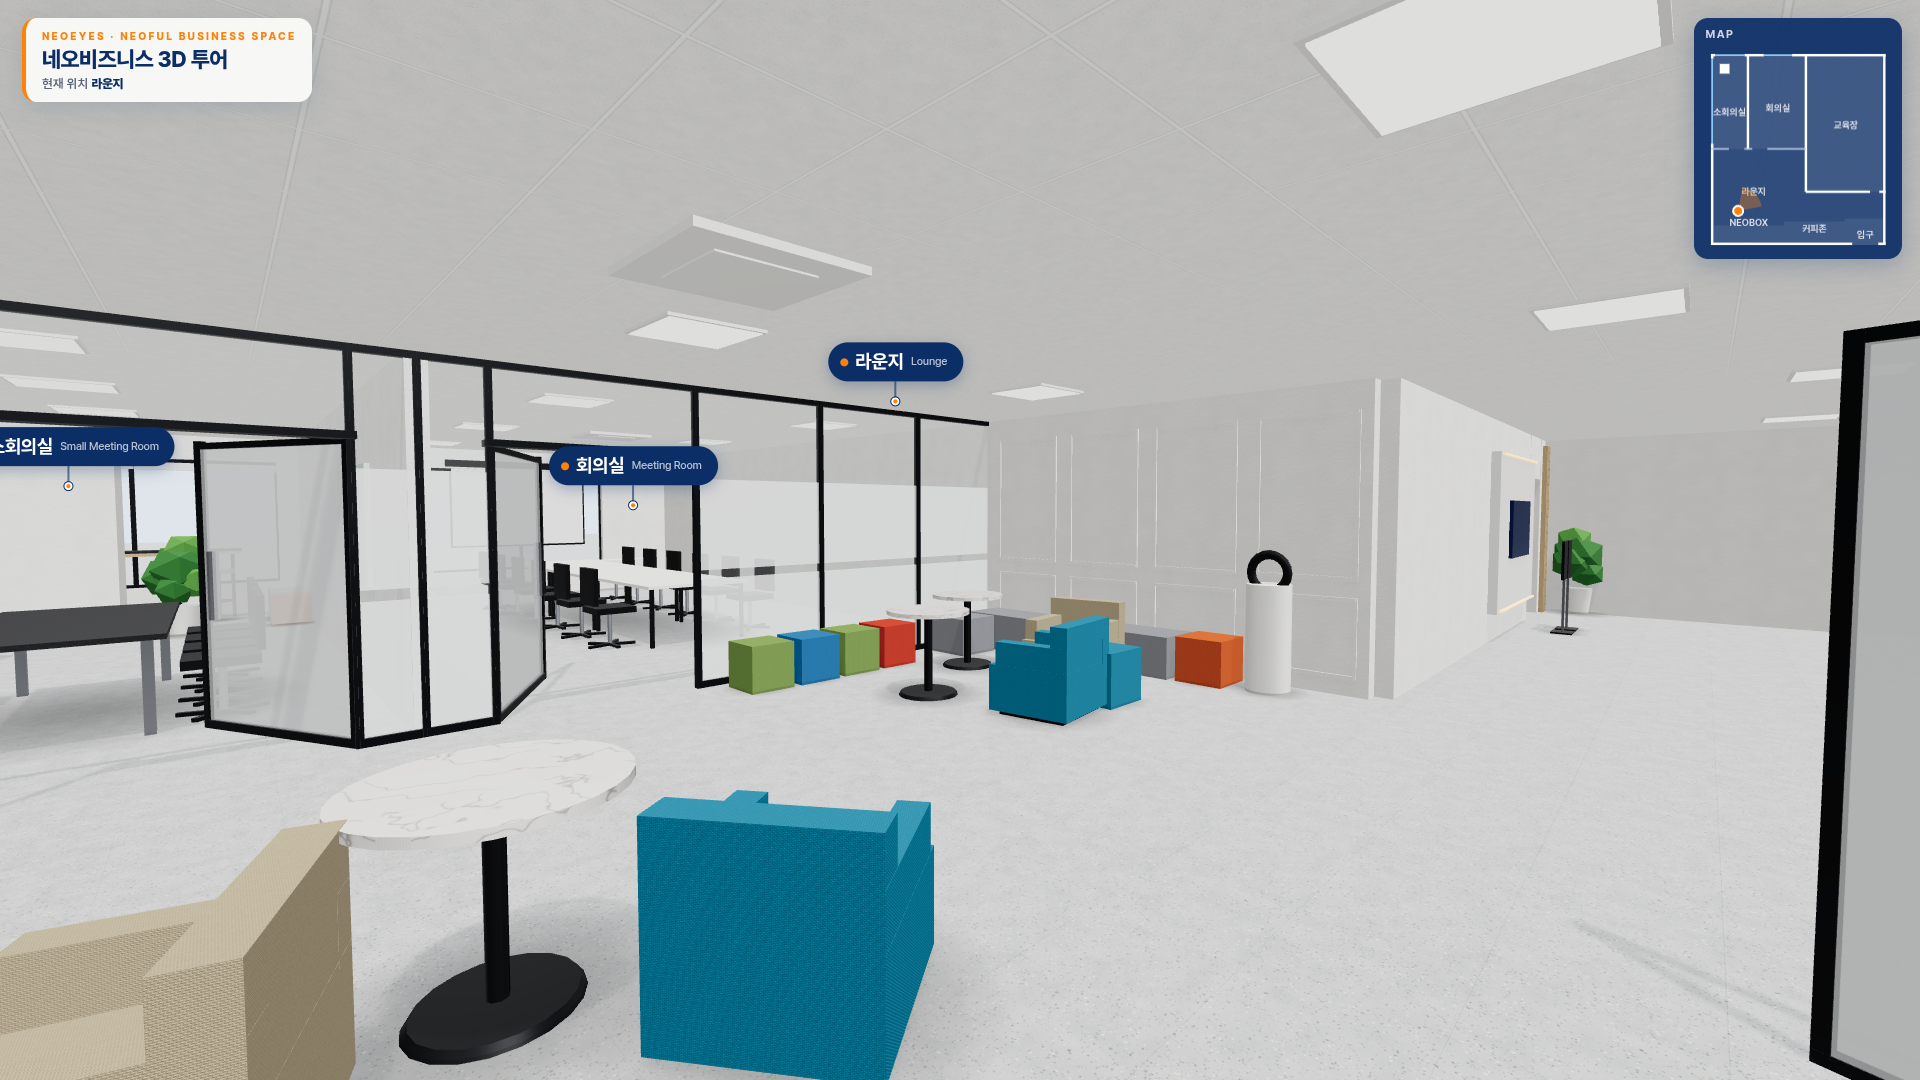
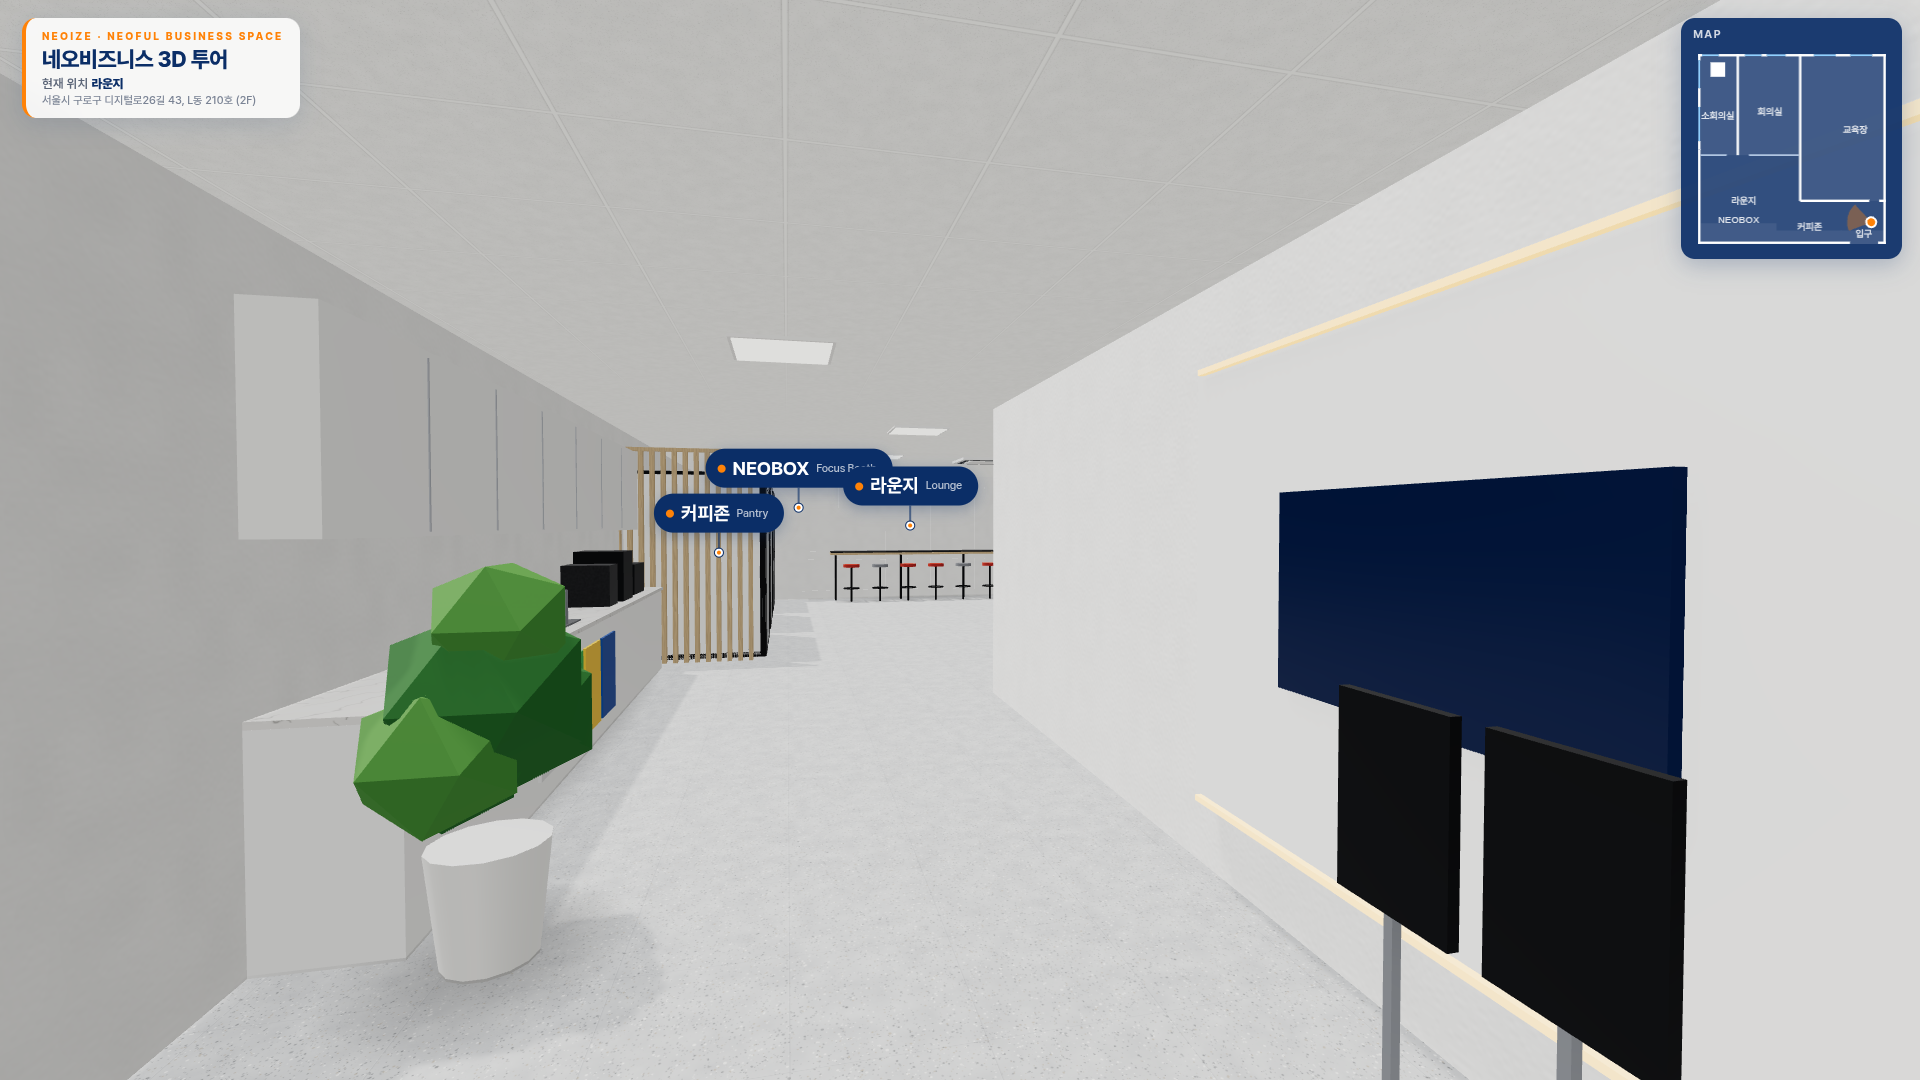
건물 세로 18.3m(통로·라운지 축소): 남쪽 벽·입구·NEOBOX·커피존 1.3m 북쪽 이동

diff --git a/layout.js b/layout.js
@@ -16,7 +16,7 @@ window.LAYOUT = {
   building: {
     name: '네오비즈니스',
     width: 18.0,        // 건물 가로(동서) 길이
-    depth: 19.6,        // 건물 세로(남북) 길이
+    depth: 18.3,        // 건물 세로(남북) 길이 — 바꾸면 남쪽 벽·입구·부스·커피존 좌표(z)도 같이 옮겨 주세요 (11/19 실측 스케치: 19.6 → 18.3)
     ceiling: 2.7,       // 천장 높이
     eye: 1.6,           // 걷기 모드 눈높이
     wall: { exterior: 0.24, interior: 0.14, thick: 0.30 }  // 벽 두께 기본값 (벽마다 t 로 따로 지정 가능)
@@ -51,21 +51,21 @@ window.LAYOUT = {
              desc:'Neoful biz space EDUCATION CENTER. 라운지 쪽 출입구에는 백라이트 패널과 TV, 안내 배너가 있고, 내부는 앞쪽에 단상과 와이드 스크린, 화이트 강의용 책상 5줄이 놓인 교육장이에요.',
              use:'교육 · 면접 · 회의(온라인) · 워크숍 · 시상식 · 세미나',
              services:['와이드 스크린','빔프로젝터','무선마이크(2대)','TV 모니터(55인치)','공기청정기','정수기','냉난방 · 시스템 공기청정기','강사 대기석','행사 전 물품 택배 배송 가능'] } },
-    { id:'focus', name:'NEOBOX', en:'Focus Booth · NEOBOX', small:true, rect:[0.24, 17.6, 7.52, 19.6], floor:'floor',
-      label:[3.9, 17.3], labelY:2.35, jump:{ x:5.1, z:16.0, look:[3.4, 19.3] },
+    { id:'focus', name:'NEOBOX', en:'Focus Booth · NEOBOX', small:true, rect:[0.24, 16.3, 7.52, 18.3], floor:'floor',
+      label:[3.9, 16.0], labelY:2.35, jump:{ x:5.1, z:14.7, look:[3.4, 18.0] },
       card:{ photos:['IMG_0398','IMG_0397','IMG_0401','IMG_0403'],
              desc:'NEOBOX1 · NEOBOX2 · NEOBOX3, 모니터와 책상이 있는 1인용 부스 3개예요. 커피존 바로 옆, 우드 슬랫 파티션 너머에 나란히 있어요.' } },
-    { id:'coffee', name:'커피존', en:'Pantry', small:true, rect:[7.52, 17.2, 13.8, 19.6], floor:'floor',
-      label:[10.7, 18.0], labelY:1.6, jump:{ x:10.9, z:16.4, look:[10.3, 19.4] },
+    { id:'coffee', name:'커피존', en:'Pantry', small:true, rect:[7.52, 17.0, 13.75, 18.3], floor:'floor',
+      label:[10.7, 16.7], labelY:1.6, jump:{ x:10.9, z:15.1, look:[10.3, 18.1] },
       card:{ photos:['IMG_0386','IMG_0387','IMG_0398'],
              desc:'공용 사용 공간(LOUNGE & AMENITIES). 커피머신과 수납장, 분리수거함이 있는 탕비 공간이에요. 우드 슬랫 파티션으로 라운지와 나뉘어 있어요.',
              services:['정수기','커피머신','제빙기','전자레인지','공기청정기','냉난방'] } },
-    { id:'entrance', name:'입구', en:'Entrance', small:true, rect:[13.8, 16.9, 18, 19.6], floor:'floor',
-      label:[15.9, 18.6], jump:{ x:17.3, z:18.25, look:[6.0, 10.4] },
+    { id:'entrance', name:'입구', en:'Entrance', small:true, rect:[13.75, 17.0, 18, 18.3], floor:'floor',
+      label:[15.9, 17.3], jump:{ x:17.3, z:16.95, look:[6.0, 10.4] },
       card:{ photos:['IMG_0378','IMG_0380','IMG_0388'],
              desc:'유리문 위에 Neoful business space 사인이 있는 입구예요. 들어오면 교육장 앞 디스플레이 월과 배너가 보여요.' } },
-    { id:'lounge', name:'라운지', en:'Lounge', rect:[0, 9.74, 18, 19.6], floor:'floor',
-      label:[4.4, 14.2], jump:{ x:2.8, z:16.1, look:[8.2, 10.7] },
+    { id:'lounge', name:'라운지', en:'Lounge', rect:[0, 9.74, 18, 18.3], floor:'floor',
+      label:[4.4, 14.2], jump:{ x:2.8, z:15.0, look:[8.2, 10.7] },
       card:{ photos:['IMG_0420','IMG_0421','IMG_0422','IMG_0424'],
              desc:'공용 사용 공간(LOUNGE & AMENITIES) — 탁 트인 휴식 공간이에요. 흰 몰딩 벽을 따라 긴 바 테이블과 스툴이 놓여 있고, 회의실 유리벽 앞 코너에는 회색 벤치, 컬러 큐브 스툴, 원형 테이블과 블루·베이지 암체어가 있어요.',
              services:['정수기','커피머신','제빙기','전자레인지','공기청정기','냉난방','휴식 공간'] } }
@@ -109,12 +109,12 @@ window.LAYOUT = {
     { from:[0, 3.3],   to:[0, 5.1],   type:'solid',  outer:true },
     { from:[0, 5.1],   to:[0, 8.4],   type:'window', outer:true, style:'tall', blind:0 },      // 소회의실 창 ② (가운데) — 사진 IMG_0414·0415: 롤스크린 올림
     { from:[0, 8.4],   to:[0, 9.21],  type:'solid',  outer:true },
-    { from:[0, 9.21],  to:[0, 19.6],  type:'solid',  outer:true, molding:'east', moldingFrom:9.9, moldingTo:17.3 },  // 라운지 몰딩 벽 (molding: 몰딩을 붙일 면, From~To 구간)
+    { from:[0, 9.21],  to:[0, 18.3],  type:'solid',  outer:true, molding:'east', moldingFrom:9.9, moldingTo:16.0 },  // 라운지 몰딩 벽 (molding: 몰딩을 붙일 면, From~To 구간)
     // 바깥벽 — 남쪽(아래), 입구 유리 양문
-    { from:[0, 19.6],  to:[18, 19.6], type:'solid',  outer:true,
+    { from:[0, 18.3],  to:[18, 18.3], type:'solid',  outer:true,
       openings:[ { at:14.56, width:2.7, door:'glass', double:true, entrance:true } ] },
     // 바깥벽 — 동쪽(오른쪽)
-    { from:[18, 0],    to:[18, 19.6], type:'solid',  outer:true },
+    { from:[18, 0],    to:[18, 18.3], type:'solid',  outer:true },
 
     // 안쪽 벽
     { from:[3.81, 0],  to:[3.81, 9.74], type:'solid' },                       // 소회의실 | 회의실
@@ -144,8 +144,8 @@ window.LAYOUT = {
     panels: [
       { rect:[0, 2.4, 3.81, 9.74],   nx:1, nz:3 },
       { rect:[3.81, 0, 9.79, 9.74],  nx:2, nz:3 },
-      { rect:[0, 9.74, 9.79, 17.7],  nx:3, nz:2 },
-      { rect:[9.79, 14.14, 18, 19.6], nx:2, nz:1 }
+      { rect:[0, 9.74, 9.79, 16.4],  nx:3, nz:2 },
+      { rect:[9.79, 14.14, 18, 18.3], nx:2, nz:1 }
     ],
     // 교육장: 사진 IMG_0382·0384 기준 — 남북 방향 일자 LED 2열 × 3줄, 가운데 줄에 천장 에어컨과 빔 프로젝터
     strips: [
@@ -212,14 +212,14 @@ window.LAYOUT = {
     { type:'plant', x:17.69, z:14.74, scale:1.05 },
 
     /* --- NEOBOX 부스 --- */
-    { type:'booth', x:1.405, z:18.6, w:1.85, d:1.69, label:'NEOBOX1' },
-    { type:'booth', x:3.89,  z:18.6, w:1.86, d:1.69, label:'NEOBOX2' },
-    { type:'booth', x:6.38,  z:18.6, w:1.86, d:1.69, label:'NEOBOX3' },
+    { type:'booth', x:1.385, z:17.3, w:1.85, d:1.69, label:'NEOBOX1' },   // x0.46–2.31 (11/19 스케치)
+    { type:'booth', x:3.885, z:17.3, w:1.85, d:1.69, label:'NEOBOX2' },   // x2.96–4.81
+    { type:'booth', x:6.335, z:17.3, w:1.85, d:1.69, label:'NEOBOX3' },   // x5.41–7.26
 
     /* --- 커피존 --- */
-    { type:'slats', from:[7.46, 19.37], to:[7.46, 17.92], h:2.45, count:13, thick:true },
-    { type:'pantry', x:10.64, z:19.17, w:5.74 },
-    { type:'plant', x:13.56, z:18.57, scale:1.15 },
+    { type:'slats', from:[7.46, 18.07], to:[7.46, 16.62], h:2.45, count:13, thick:true },
+    { type:'pantry', x:10.64, z:17.87, w:5.74 },
+    { type:'plant', x:13.56, z:17.27, scale:1.15 },
 
     /* --- 라운지 --- */
     { type:'barCounter', x:0.39, z:13.09, w:0.5, d:4.4, h:1.04 },
@@ -238,9 +238,9 @@ window.LAYOUT = {
     { type:'armchair', x:7.45, z:12.46, rot:9,  color:'fabricTeal' },
     { type:'cube', x:8.05, z:12.56, size:0.45, color:'fabricTeal' },
     { type:'purifier', x:9.34, z:13.41 },
-    { type:'plant', x:0.52, z:16.39, scale:1.1 },
+    { type:'plant', x:0.55, z:10.3, scale:1.0 },            // 바 테이블 북쪽 끝(라운지가 좁아져 부스 앞에서 옮김)
 
     /* --- 입구 --- */
-    { type:'mat', x:15.91, z:18.68, w:2.1, d:1.3, color:'orange' }
+    { type:'mat', x:15.91, z:17.38, w:2.1, d:1.3, color:'orange' }
   ]
 };

diff --git a/app.js b/app.js
@@ -5,7 +5,7 @@ import { OrbitControls } from 'three/addons/OrbitControls.js';
 import { CSS2DRenderer, CSS2DObject } from 'three/addons/CSS2DRenderer.js';
 import { RoomEnvironment } from 'three/addons/RoomEnvironment.js';
 import { mergeGeometries } from 'three/addons/BufferGeometryUtils.js';
-import { makeTextures, textTexture } from './textures.js?v=11190950';
+import { makeTextures, textTexture } from './textures.js?v=11190970';
 
 const L = window.LAYOUT, B = L.building, H = B.ceiling, EYE = B.eye || 1.6, W = B.width, D = B.depth;
 const TW = Object.assign({ exterior: 0.24, interior: 0.14, thick: 0.3 }, B.wall || {});

diff --git a/index.html b/index.html
@@ -131,8 +131,8 @@ body.shot #doorPrompt{font-size:22px;padding:12px 22px 12px 14px}body.shot #door
   </div>
 </aside>
 <!-- 공간 설정: 치수·가구 배치는 layout.js 에서 수정 -->
-<script src="layout.js?v=11190950"></script>
+<script src="layout.js?v=11190970"></script>
 <script type="importmap">{"imports":{"three":"./lib/three.module.min.js","three/addons/":"./lib/addons/"}}</script>
-<script type="module" src="app.js?v=11190950"></script>
+<script type="module" src="app.js?v=11190970"></script>
 </body>
 </html>

diff --git a/수정방법.md b/수정방법.md
@@ -245,3 +245,8 @@ ceiling: { panels:[ { rect:[x1,z1,x2,z2], nx:2, nz:3 } ],  aircon:[[x,z], ...] }
 - 문 `door:'frameless'` : 바닥~천장 시트 유리문 + 블랙 세로 손잡이 + 상부 금속 패치
 - 화이트보드 `style:'mirror'` : 대형 유리/거울 패널 + 선반 (교육장 동쪽 벽)
 - 강의 책상 `deskPair` 옵션: `casters:true`(바퀴·앞 가림판), `tag:true`(의자 이름표), `chairBase:'silver'`
+
+## 건물 크기 바꾸기 (layout.js → building)
+- `width`(동서, 18m) · `depth`(남북, 현재 18.3m — 11/19 스케치로 19.6에서 줄임)
+- depth 를 바꾸면 남쪽 바깥벽(`walls` 의 z 값), 라운지·NEOBOX·커피존·입구 `rect`, 부스·커피존·입구 매트 등 남쪽 가구의 z 도 같은 만큼 옮겨 주세요.
+- 바닥·천장·미니맵·3D 보기 카메라는 width/depth 에서 자동으로 계산돼요.
